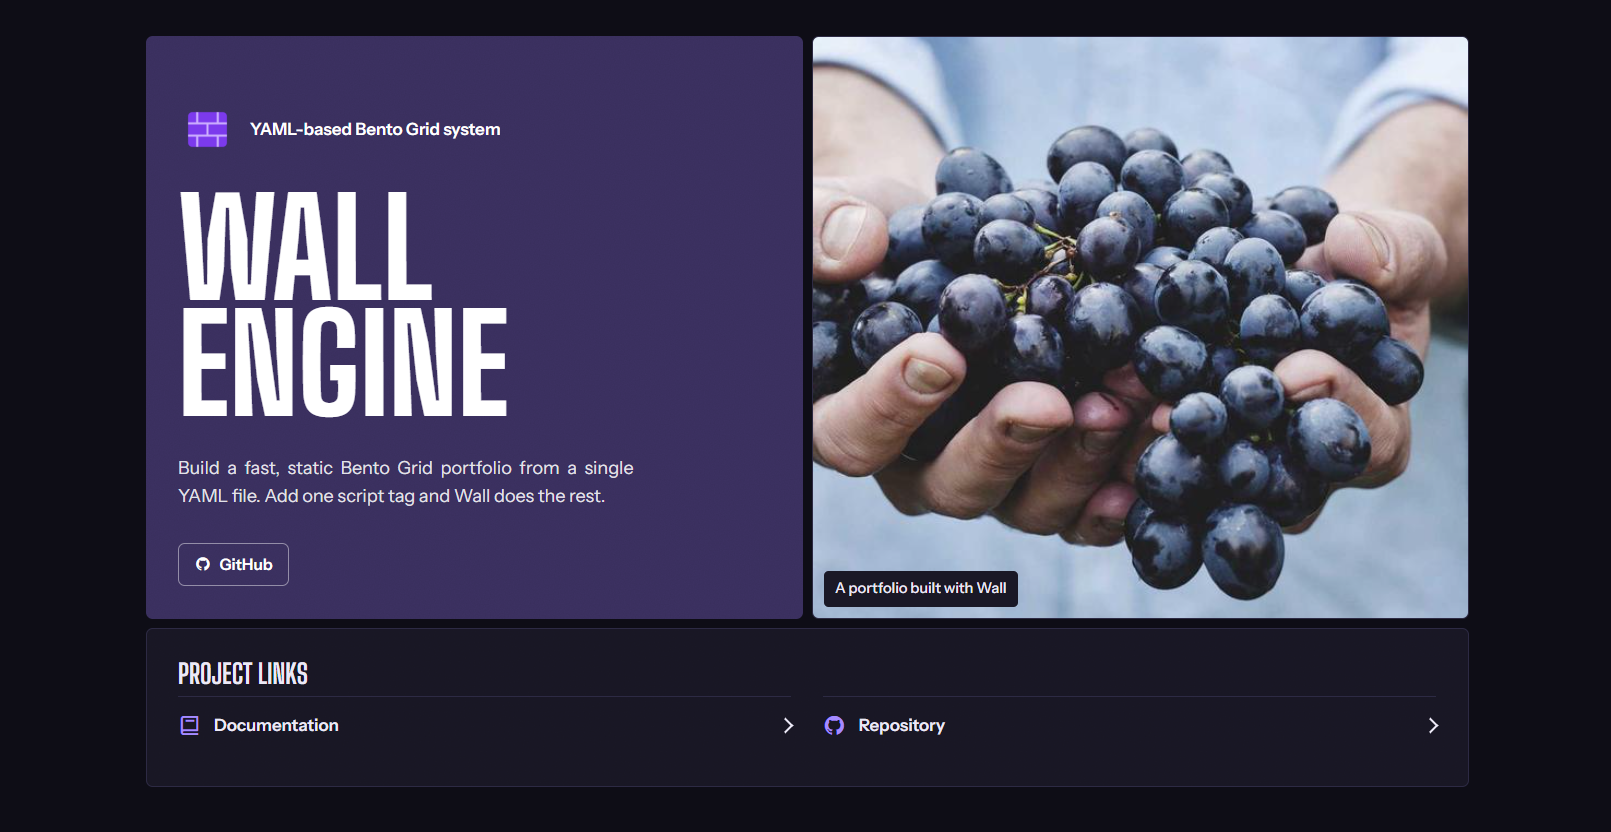
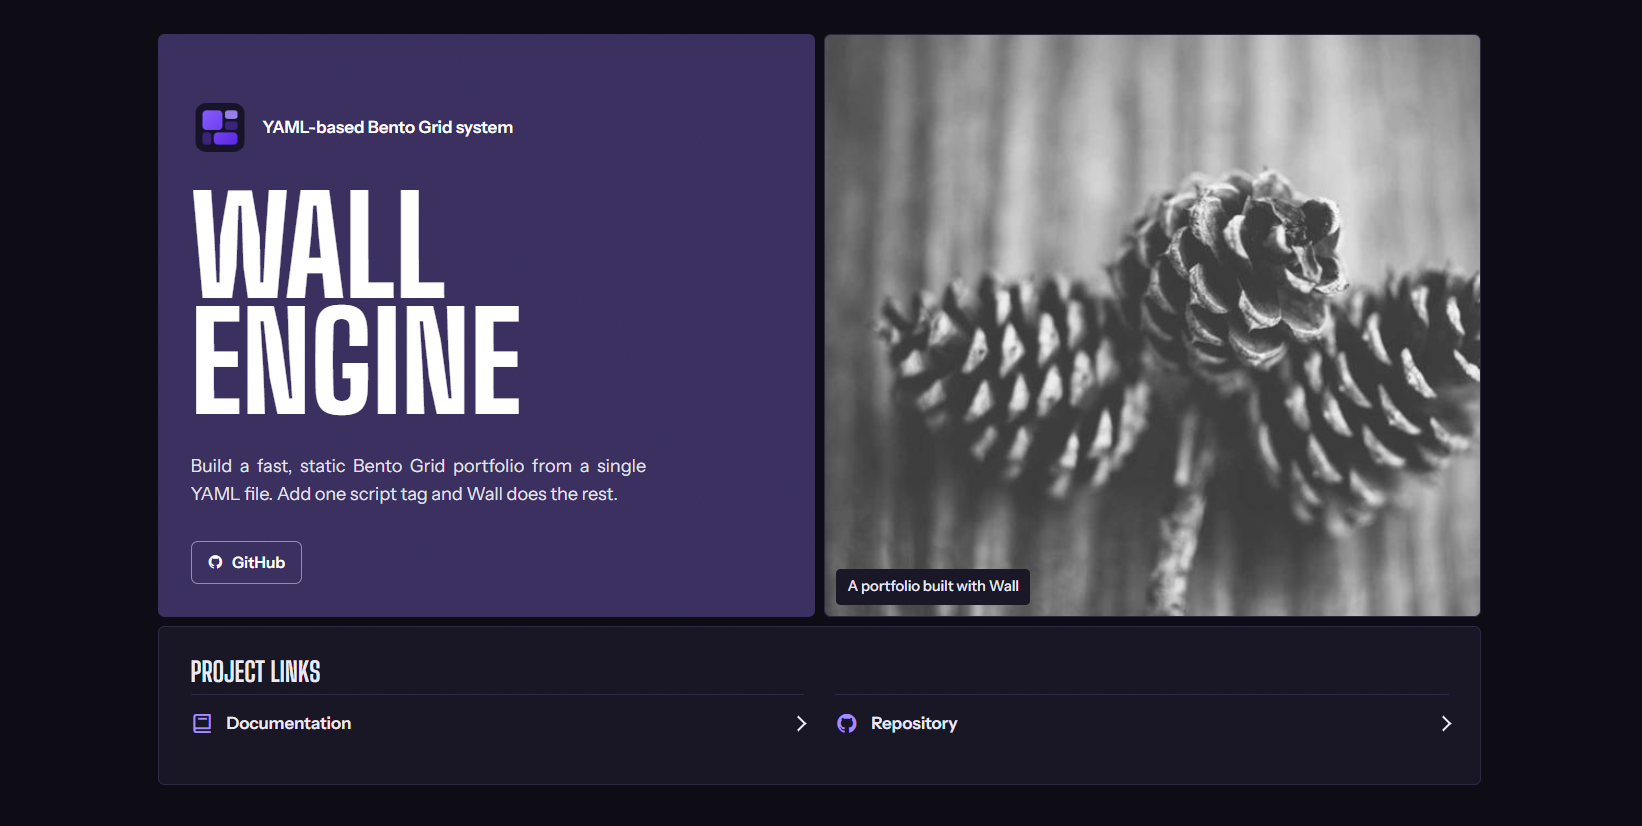
fix

diff --git a/docs/loader.js b/docs/loader.js
@@ -7,7 +7,7 @@
 	const script = document.createElement("script");
 
 	script.type = "module";
-	script.src = local ? new URL("../src/main.js", me.src).href : "https://raw.githubusercontent.com/aardaakpinar/wall/refs/heads/main/src/main.js";
+	script.src = local ? new URL("../src/main.js", me.src).href : "https://cdn.jsdelivr.net/gh/aardaakpinar/wall@v1.1.0/src/main.js";
 
 	if (me.dataset.wallConfig) {
 		script.dataset.wallConfig = me.dataset.wallConfig;

diff --git a/README.md b/README.md
@@ -13,14 +13,14 @@ No install, no build. Create an `index.html` with one script tag:
 ```html
 <!DOCTYPE html>
 <html lang="en">
-  <head>
-    <meta charset="UTF-8" />
-    <meta name="viewport" content="width=device-width, initial-scale=1.0" />
-    <title>Portfolio - Your Name</title>
-  </head>
-  <body>
-    <script type="module" src="https://cdn.jsdelivr.net/gh/aardaakpinar/wall@ma../src/main.js"></script>
-  </body>
+	<head>
+		<meta charset="UTF-8" />
+		<meta name="viewport" content="width=device-width, initial-scale=1.0" />
+		<title>Portfolio - Your Name</title>
+	</head>
+	<body>
+		<script type="module" src="https://cdn.jsdelivr.net/gh/aardaakpinar/wall@main/src/main.js"></script>
+	</body>
 </html>
 ```
 
@@ -28,17 +28,17 @@ Then add a `config.yaml` next to it and upload both files to any static host (Gi
 
 ```yaml
 profile:
-  name: Your Name
-  title: What you do
-  description: One or two sentences about you.
+    name: Your Name
+    title: What you do
+    description: One or two sentences about you.
 
 main:
-  - type: hero
-  - type: links
-    items:
-      - name: GitHub
-        icon: bxl bx-github
-        url: https://github.com/you
+    - type: hero
+    - type: links
+      items:
+          - name: GitHub
+            icon: bxl bx-github
+            url: https://github.com/you
 ```
 
 Replace `@main` with a release tag to pin your site to a fixed version. Relative image paths in `config.yaml` load from your own site. See the [wiki](https://github.com/aardaakpinar/wall/wiki) for every card type and theme option.
@@ -71,10 +71,10 @@ import { cardClass } from "../../core/card.js";
 import { escapeHtml } from "../../core/html.js";
 
 export default defineComponent({
-  type: "quote", // the `type:` value in config.yaml
-  styles: new URL("./quote.css", import.meta.url).href,
-  render: (card) => `<blockquote class="${cardClass(card, "quote-card")}">${escapeHtml(card.text)}</blockquote>`,
-  // optional: load(card, ctx) fetches data, mount(root, card, ctx, data) adds behavior
+	type: "quote", // the `type:` value in config.yaml
+	styles: new URL("./quote.css", import.meta.url).href,
+	render: (card) => `<blockquote class="${cardClass(card, "quote-card")}">${escapeHtml(card.text)}</blockquote>`,
+	// optional: load(card, ctx) fetches data, mount(root, card, ctx, data) adds behavior
 });
 ```
 

diff --git a/docs/posts/get-started.md b/docs/posts/get-started.md
@@ -16,14 +16,14 @@ Add a single script tag to an empty page:
 ```html
 <!DOCTYPE html>
 <html lang="en">
-  <head>
-    <meta charset="UTF-8" />
-    <meta name="viewport" content="width=device-width, initial-scale=1.0" />
-    <title>Portfolio - Your Name</title>
-  </head>
-  <body>
-    <script type="module" src="https://cdn.jsdelivr.net/gh/aardaakpinar/wall@ma../src/main.js"></script>
-  </body>
+	<head>
+		<meta charset="UTF-8" />
+		<meta name="viewport" content="width=device-width, initial-scale=1.0" />
+		<title>Portfolio - Your Name</title>
+	</head>
+	<body>
+		<script type="module" src="https://cdn.jsdelivr.net/gh/aardaakpinar/wall@v1.1.0/src/main.js"></script>
+	</body>
 </html>
 ```
 
@@ -33,17 +33,17 @@ Put it next to `index.html`. Every card on the page is one entry in `main`:
 
 ```yaml
 profile:
-  name: Your Name
-  title: What you do
-  description: One or two sentences about you.
+    name: Your Name
+    title: What you do
+    description: One or two sentences about you.
 
 main:
-  - type: hero
-  - type: links
-    items:
-      - name: GitHub
-        icon: bxl bx-github
-        url: https://github.com/you
+    - type: hero
+    - type: links
+      items:
+          - name: GitHub
+            icon: bxl bx-github
+            url: https://github.com/you
 ```
 
 ## 3. Publish
